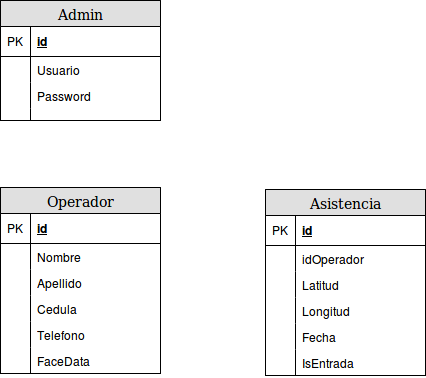
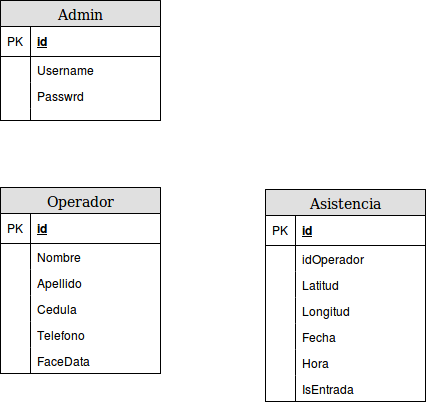
mas cambios a views. Antes de hacer deploy en heroku

diff --git a/restApi/views.py b/restApi/views.py
@@ -1,83 +1,93 @@
-from rest_framework import status
-from rest_framework.decorators import api_view
-from rest_framework.response import Response
 from restApi.models import Operador, Asistencia
 from restApi.serializers import OperadorSerializer, AsistenciaSerializer
+from django.http import Http404
+from rest_framework import status
+from rest_framework.decorators import APIView
+from rest_framework.response import Response
 
-@api_view(['GET', 'POST'])
-def operador_list(request):
+from rest_framework.decorators import api_view
+
+class OperadorList(APIView):
 
     # Lista todos los operadores
-    if request.method == 'GET':
+    def get(self,request, format=None):
         operadores = Operador.objects.all()
         serializer = OperadorSerializer(operadores, many=True)
         return Response(serializer.data)
 
     # Crea un nuevo operador
-    elif request.method == 'POST':
+    def post(self, request, format=None):
         serializer = OperadorSerializer(data=request.data)
         if serializer.is_valid():
             serializer.save()
             return Response(serializer.data, status=status.HTTP_201_CREATED)
         return Response(serializer.errors, status=status.HTTP_400_BAD_REQUEST)
 
-@api_view(['GET', 'PUT', 'DELETE'])
-def operador_detail(request, pk):
+class OperadorDetail(APIView):
     """
     Obtener, actualizar o eliminar un operador.
     """
 
-    try:
-        operador = Operador.objects.get(pk=pk)
-    except Operador.DoesNotExist:
-        return Response(status=status.HTTP_404_NOT_FOUND)
+    def get_object(self, pk):
+        try:
+            return Operador.objects.get(pk=pk)
+        except Operador.DoesNotExist:
+            raise Http404
 
-    if request.method == 'GET':
+    def get(self, request, pk, format=None):
+        operador = self.get_object(pk)
         serializer = OperadorSerializer(operador)
         return Response(serializer.data)
 
-    elif request.method == 'PUT':
+    def put(self, request, pk,  format=None):
+        operador = self.get_object(pk)
         serializer = OperadorSerializer(operador, data=request.data)
         if serializer.is_valid():
             serializer.save()
             return Response(serializer.data)
         return Response(serializer.errors, status=status.HTTP_400_BAD_REQUEST)
 
-    elif request.method == 'DELETE':
+    def delete(self, request, pk, format=None):
+        operador = self.get_object(pk)
         operador.delete()
         return Response(status=status.HTTP_204_NO_CONTENT)
 
-@api_view(['GET', 'POST'])
-def asistencia_list(request):
+class AsistenciaList(APIView):
     """
     Lista todos las asistencias o crea una nueva.
     """
 
-    if request.method == 'GET':
+    def get(self, request, format=None):
         asistencias = Asistencia.objects.all()
         serializer = AsistenciaSerializer(asistencias, many=True)
         return Response(serializer.data)
 
-    elif request.method == 'POST':
+    def post(self, request, format=None):
         serializer = AsistenciaSerializer(data=request.data)
         if serializer.is_valid():
             serializer.save()
             return Response(serializer.data, status=status.HTTP_201_CREATED)
         return Response(serializer.errors, status=status.HTTP_400_BAD_REQUEST)
 
-@api_view(['GET', 'PUT', 'DELETE'])
-def asistencia_detail(request, pk):
+class AsistenciaDetail(APIView):
     """
     Obtener una asistencia.
     """
 
-    try:
-        asitencia = Asistencia.objects.get(pk=pk)
-    except Asistencia.DoesNotExist:
-        return Response(status=status.HTTP_404_NOT_FOUND)
+    def get_object(self, pk):
+        try:
+            return Asistencia.objects.get(pk=pk)
+        except Asistencia.DoesNotExist:
+            return Http404
 
-    if request.method == 'GET':
+    def get(self, request, pk, format=None):
+        asistencia = self.get_object(pk)
         serializer = AsistenciaSerializer(asistencia)
         return Response(serializer.data)
 
     # No deberia ser posible modificar o eliminar una Asistencia desde la app.
+
+# REPORTES
+#
+# @api_view(['GET'])
+# def asistenciasOperador(request):

diff --git a/restApi/migrations/0001_initial.py b/restApi/migrations/0001_initial.py
@@ -1,5 +1,5 @@
 # -*- coding: utf-8 -*-
-# Generated by Django 1.11.5 on 2017-09-11 14:36
+# Generated by Django 1.11.5 on 2017-09-12 16:36
 from __future__ import unicode_literals
 
 from django.db import migrations, models
@@ -28,7 +28,8 @@ class Migration(migrations.Migration):
                 ('id', models.AutoField(auto_created=True, primary_key=True, serialize=False, verbose_name='ID')),
                 ('latitud', models.CharField(blank=True, default='', max_length=100)),
                 ('longitud', models.CharField(blank=True, default='', max_length=100)),
-                ('fecha', models.DateTimeField(auto_now_add=True)),
+                ('fecha', models.DateField(auto_now_add=True)),
+                ('hora', models.TimeField(auto_now_add=True)),
                 ('isEntrada', models.BooleanField(default=True)),
             ],
         ),
@@ -40,7 +41,7 @@ class Migration(migrations.Migration):
                 ('apellido', models.CharField(blank=True, default='', max_length=100)),
                 ('cedula', models.CharField(blank=True, default='', max_length=100)),
                 ('telefono', models.CharField(blank=True, default='', max_length=20)),
-                ('faceData', models.CharField(blank=True, default='', max_length=100)),
+                ('faceData', models.CharField(blank=True, default='none', max_length=100)),
             ],
             options={
                 'ordering': ('apellido',),
@@ -48,7 +49,7 @@ class Migration(migrations.Migration):
         ),
         migrations.AddField(
             model_name='asistencia',
-            name='idOperador',
+            name='operador',
             field=models.ForeignKey(on_delete=django.db.models.deletion.CASCADE, to='restApi.Operador'),
         ),
     ]

diff --git a/restApi/models.py b/restApi/models.py
@@ -11,7 +11,7 @@ class Operador(models.Model):
     apellido = models.CharField(max_length=100, blank=True, default='')
     cedula = models.CharField(max_length=100, blank=True, default='')
     telefono = models.CharField(max_length=20, blank=True, default='')
-    faceData = models.CharField(max_length=100, blank=True, default='')
+    faceData = models.CharField(max_length=100, blank=True, default='none')
 
     class Meta:
         ordering = ('apellido',)
@@ -22,5 +22,6 @@ class Asistencia(models.Model):
     operador = models.ForeignKey('Operador', on_delete=models.CASCADE)
     latitud = models.CharField(max_length=100, blank=True, default='')
     longitud = models.CharField(max_length=100, blank=True, default='')
-    fecha = models.DateTimeField(auto_now_add=True)
+    fecha = models.DateField(auto_now_add=True)
+    hora = models.TimeField(auto_now_add=True)
     isEntrada = models.BooleanField(default=True)

diff --git a/restApi/urls.py b/restApi/urls.py
@@ -1,9 +1,12 @@
 from django.conf.urls import url
+from rest_framework.urlpatterns import format_suffix_patterns
 from restApi import views
 
 urlpatterns = [
-    url(r'^operadores/$', views.operador_list),
-    url(r'^operadores/(?P<pk>[0-9]+)/$', views.operador_detail),
-    url(r'^asistencias/$', views.asistencia_list),
-    url(r'^asistencias/(?P<pk>[0-9]+)/$', views.asistencia_detail),
+    url(r'^operadores/$', views.OperadorList.as_view()),
+    url(r'^operadores/(?P<pk>[0-9]+)/$', views.OperadorDetail.as_view()),
+    url(r'^asistencias/$', views.AsistenciaList.as_view()),
+    url(r'^asistencias/(?P<pk>[0-9]+)/$', views.AsistenciaDetail.as_view()),
 ]
+
+urlpatterns = format_suffix_patterns(urlpatterns)
